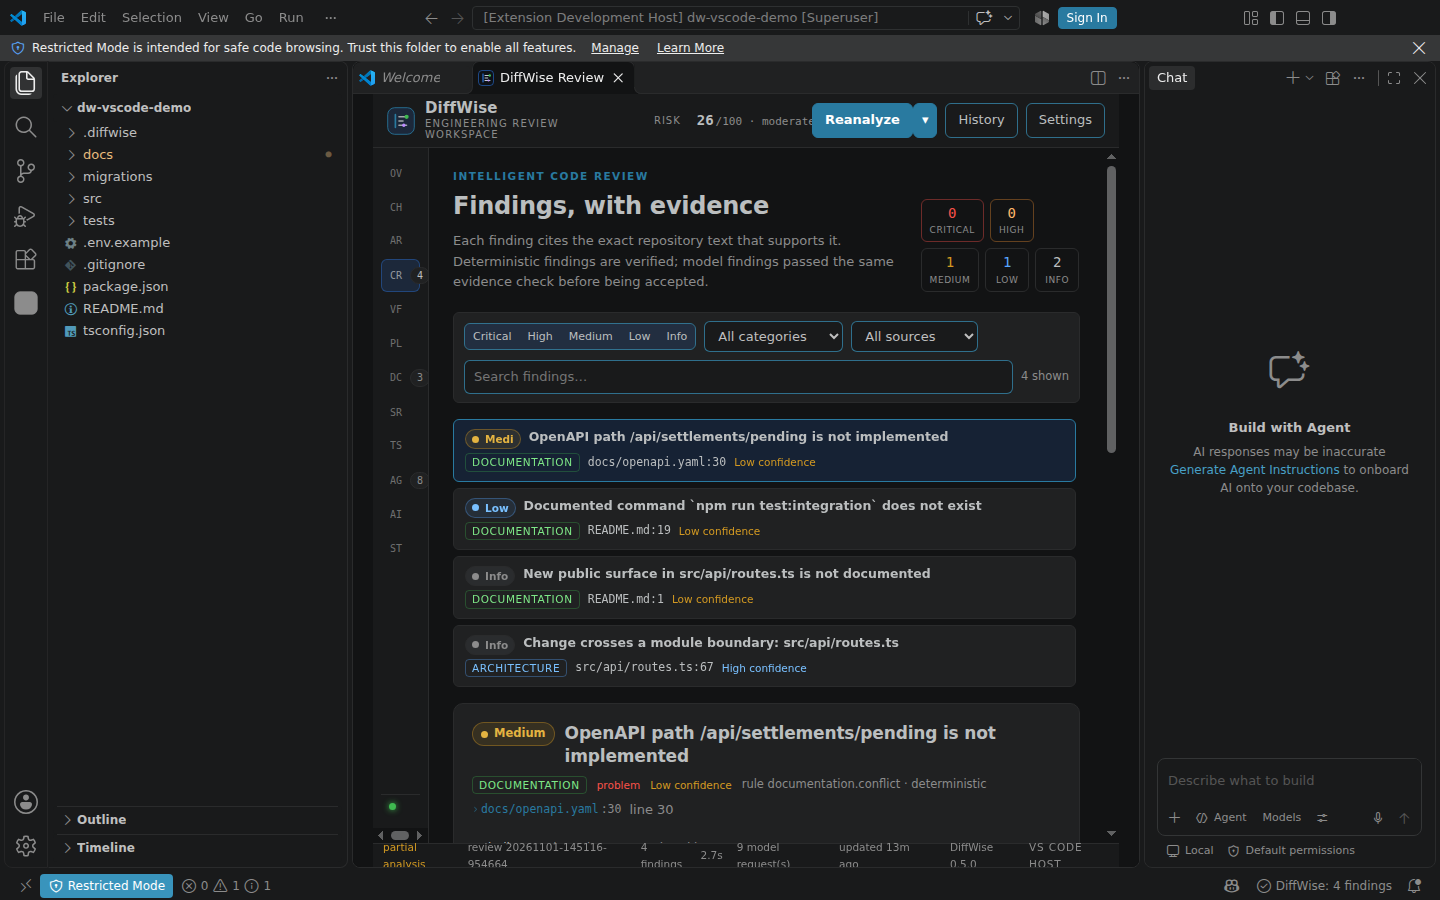
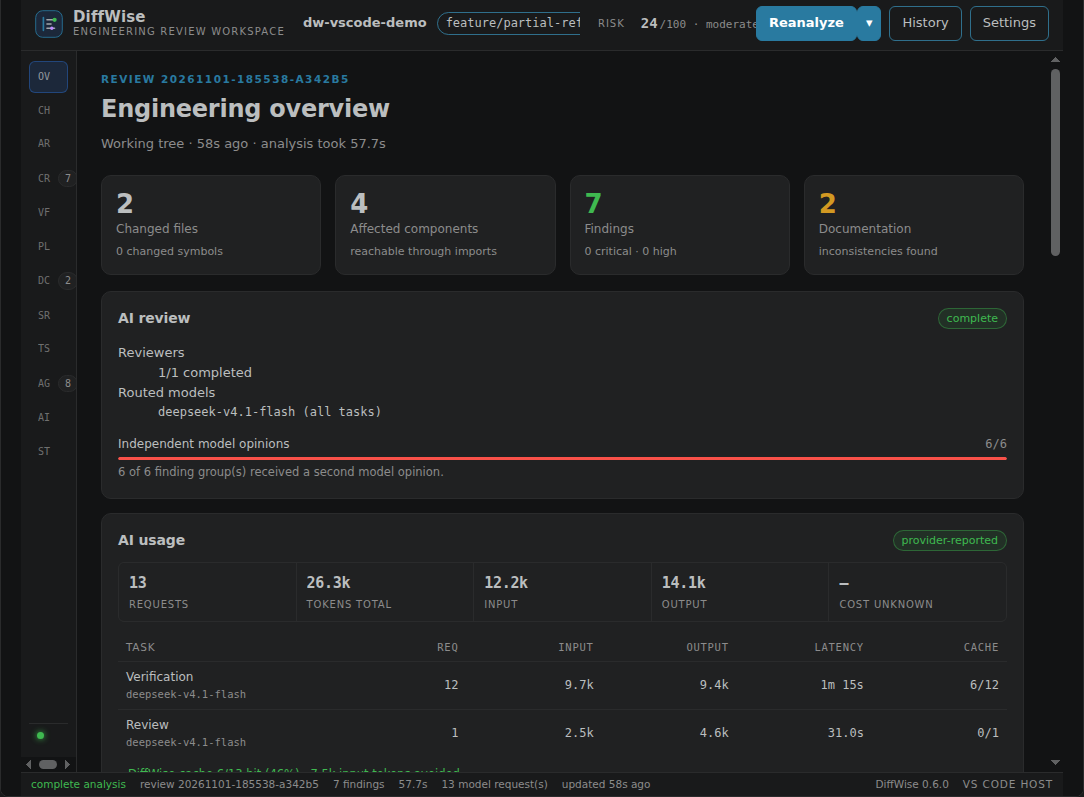
fix(vscode): project AI config was silently overridden by extension defaults
Found while producing the VS Code screenshot: an editor review of a project
configured for its own gateway failed with "no API key supplied" by
api.openai.com.

The extension passed its schema defaults (baseUrl https://api.openai.com/v1,
model gpt-4o-mini, providerId, ai.enabled) into DiffWiseService as an override
layer. Defaults are indistinguishable from values a developer chose, so
`.diffwise/config.json` — the documented place to configure a provider — was
replaced without a word, in the editor only. `providersFrom()` also built a
provider from those defaults whenever AI was enabled, so the service never
resolved the project's own configuration.

- support.ts: `explicitSetting()` reads a value only when workspace/global/folder
  value is set (inspect()), not the schema default.
- extension.ts: analysis overrides and provider injection use only explicit
  values; no VS Code provider config means the service resolves it from the
  project, as the CLI does.
- webview: a successful report clears a stale "Analysis error" banner.
- tools/evidence/vscode-shots.mjs: captures the panel (not the IDE chrome) for
  docs, with a note on why it never starts a second review.

Verified in a real Extension Development Host: the same workspace that failed
before now completes an AI review (15 requests, 1/1 reviewer, 6/6 model
opinions, status complete), and docs/screenshots/vscode-e2e.png is that panel.

diff --git a/apps/vscode/src/extension.ts b/apps/vscode/src/extension.ts
@@ -9,7 +9,8 @@ import { DiffWiseService, ServiceError } from '@diffwise/app';
 import { DiffWisePanel, type PanelHost } from './panel';
 import type { HostMessage, SectionId, UiSettings } from './protocol';
 import {
-  fastProviderFromSettings, getUiSettings, providerFromSettings, saveUiSettings, workspaceRoot,
+  explicitSetting, fastProviderFromSettings, getUiSettings, providerFromSettings, saveUiSettings,
+  workspaceRoot,
 } from './support';
 import {
   ChangesTreeProvider, DiagnosticsManager, DiffWiseCodeLensProvider, FindingsTreeProvider,
@@ -659,14 +660,20 @@ class ReviewController implements PanelHost, vscode.Disposable {
    */
   private analysisOverrides(ui: UiSettings): Partial<AnalysisSettings> {
     const cfg = vscode.workspace.getConfiguration('diffwise');
-    const overrides: Partial<AnalysisSettings> = {
-      maxFiles: ui.maxFiles,
-      aiEnabled: ui.aiEnabled,
-      sendRepositoryContent: ui.sendRepositoryContent,
-      providerId: ui.providerId,
-      ...(ui.model ? { model: ui.model } : {}),
-      ...(ui.verificationCommand ? { verificationCommand: ui.verificationCommand } : {}),
-    };
+    const overrides: Partial<AnalysisSettings> = {};
+    // Only what the developer set: a schema default here would replace the
+    // project's own configuration without anyone asking.
+    const maxFiles = explicitSetting<number>('analysis.maxFiles');
+    if (maxFiles !== undefined) overrides.maxFiles = maxFiles;
+    const aiEnabled = explicitSetting<boolean>('ai.enabled');
+    if (aiEnabled !== undefined) overrides.aiEnabled = aiEnabled;
+    const sendContent = explicitSetting<boolean>('ai.sendRepositoryContent');
+    if (sendContent !== undefined) overrides.sendRepositoryContent = sendContent;
+    const providerId = explicitSetting<UiSettings['providerId']>('provider.id');
+    if (providerId) overrides.providerId = providerId;
+    const model = explicitSetting<string>('provider.model');
+    if (model) overrides.model = model;
+    if (ui.verificationCommand) overrides.verificationCommand = ui.verificationCommand;
     const maxFileBytes = cfg.inspect<number>('analysis.maxFileBytes');
     if (maxFileBytes?.workspaceValue !== undefined || maxFileBytes?.globalValue !== undefined) {
       overrides.maxFileBytes = cfg.get<number>('analysis.maxFileBytes', 400_000);
@@ -683,6 +690,18 @@ class ReviewController implements PanelHost, vscode.Disposable {
   }
 
   private providersFrom(ui: UiSettings): { provider?: LlmProvider; fastProvider?: LlmProvider } {
+    // A provider is injected only when the developer configured one in VS Code.
+    // Otherwise the service resolves it from `.diffwise/config.json`, which is the
+    // documented place to configure a provider — and the only one that knows the
+    // project's gateway, model and key variable.
+    const explicitProvider = [
+      explicitSetting<string>('provider.baseUrl'),
+      explicitSetting<string>('provider.model'),
+      explicitSetting<string>('provider.id'),
+      explicitSetting<string>('provider.apiKeyEnvVar'),
+      explicitSetting<string>('provider.fastModel'),
+    ].some((value) => value !== undefined);
+    if (!explicitProvider) return {};
     if (!ui.aiEnabled || ui.providerId === 'none') return {};
     const provider = providerFromSettings(ui);
     const fastProvider = fastProviderFromSettings(ui);

diff --git a/apps/vscode/src/support.ts b/apps/vscode/src/support.ts
@@ -15,6 +15,20 @@ function config(): vscode.WorkspaceConfiguration {
   return vscode.workspace.getConfiguration('diffwise');
 }
 
+/**
+ * Read a VS Code setting only when the developer actually set it.
+ *
+ * `get()` returns the schema default, which is indistinguishable from a value the
+ * user chose. Passing those defaults into the service made VS Code settings
+ * override `.diffwise/config.json` silently — a project configured for its
+ * gateway was reviewed against api.openai.com with the default model.
+ */
+export function explicitSetting<T>(key: string): T | undefined {
+  const inspected = config().inspect<T>(key);
+  if (!inspected) return undefined;
+  return inspected.workspaceValue ?? inspected.globalValue ?? inspected.workspaceFolderValue;
+}
+
 export function getUiSettings(): UiSettings {
   const c = config();
   const envVar = c.get<string>('provider.apiKeyEnvVar', 'DIFFWISE_API_KEY');

diff --git a/packages/webview/src/App.tsx b/packages/webview/src/App.tsx
@@ -333,6 +333,9 @@ function reduce(
         history: message.history,
         settings: message.settings,
         running: false,
+        // A report that arrived successfully clears the previous failure: a stale
+        // "Analysis error" banner over a good report reads as a broken review.
+        error: undefined,
         stages: message.report.stages,
         appliedFixes: message.appliedFixes ?? message.report.appliedFixes ?? [],
         fixesByFinding: { ...prev.fixesByFinding, ...groupFixes(message.report) },

diff --git a/CHANGELOG.md b/CHANGELOG.md
@@ -25,6 +25,11 @@ AI review is the product's intelligence layer, so the review now says whether th
 - Webview: an "AI review" card (status, reviewers, routed models, independent model opinions with deferred/settled
   breakdown), a "why the model flagged it" block on AI findings, and a banner when the review is not an AI review by
   its own policy.
+- VS Code: settings are now a true override layer. The extension used to pass its schema defaults (api.openai.com,
+  `gpt-4o-mini`) into the service, so a project configured in `.diffwise/config.json` was reviewed against the wrong
+  gateway and model — in the editor only, and silently. Only values the developer actually set are passed now, and a
+  provider is injected only when VS Code itself configures one.
+- Webview: a successful report clears a previous "Analysis error" banner instead of leaving it over a good review.
 - Docs: `docs/AI_FIRST_ARCHITECTURE.md` — gap analysis, target architecture, phased migration, and what is
   deliberately not done.
 
